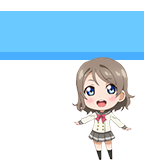
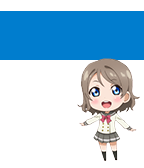
updated background image, added date layer

diff --git a/src/c/main.c b/src/c/main.c
@@ -8,8 +8,10 @@ static GBitmap *s_background_bitmap;
 static void update_time() {
   time_t temp = time(NULL);
   struct tm *tick_time = localtime(&temp);
-  
+  static char dateText[] = "Wed Jan 01       ";
   static char s_buffer[8];
+  
+
   strftime(s_buffer, sizeof(s_buffer), clock_is_24h_style() ? 
            "%H:%M" : "%I:%M", tick_time);
   text_layer_set_text(s_time_layer, s_buffer);
@@ -28,6 +30,14 @@ static void timeLayerHandler() {
   text_layer_set_text_alignment(s_time_layer, GTextAlignmentCenter);
 }
 
+static void dateLayerHandler() {
+  text_layer_set_background_color(s_date_layer, GColorClear);
+  text_layer_set_text_color(s_date_layer, GColorBlueMoon);
+  text_layer_set_text(s_date_layer, "Wed Jan 01");
+  text_layer_set_font(s_date_layer, fonts_get_system_font(FONT_KEY_GOTHIC_18_BOLD));
+  text_layer_set_text_alignment(s_date_layer, GTextAlignmentCenter);
+}
+
 static void main_window_load(Window *window) {
   // Window information  
   Layer *window_layer = window_get_root_layer(window);
@@ -38,6 +48,11 @@ static void main_window_load(Window *window) {
   s_background_layer = bitmap_layer_create(bounds);
   bitmap_layer_set_bitmap(s_background_layer, s_background_bitmap);
   layer_add_child(window_layer, bitmap_layer_get_layer(s_background_layer));
+  
+  // Creation of Date layer
+  s_date_layer = text_layer_create(GRect(-30, PBL_IF_ROUND_ELSE(48, 60), bounds.size.w, 50));
+  dateLayerHandler();
+  layer_add_child(window_layer, text_layer_get_layer(s_date_layer));
   
   // Creation of time layer
   s_time_layer = text_layer_create(GRect(0, PBL_IF_ROUND_ELSE(48, 8), bounds.size.w, 50));
